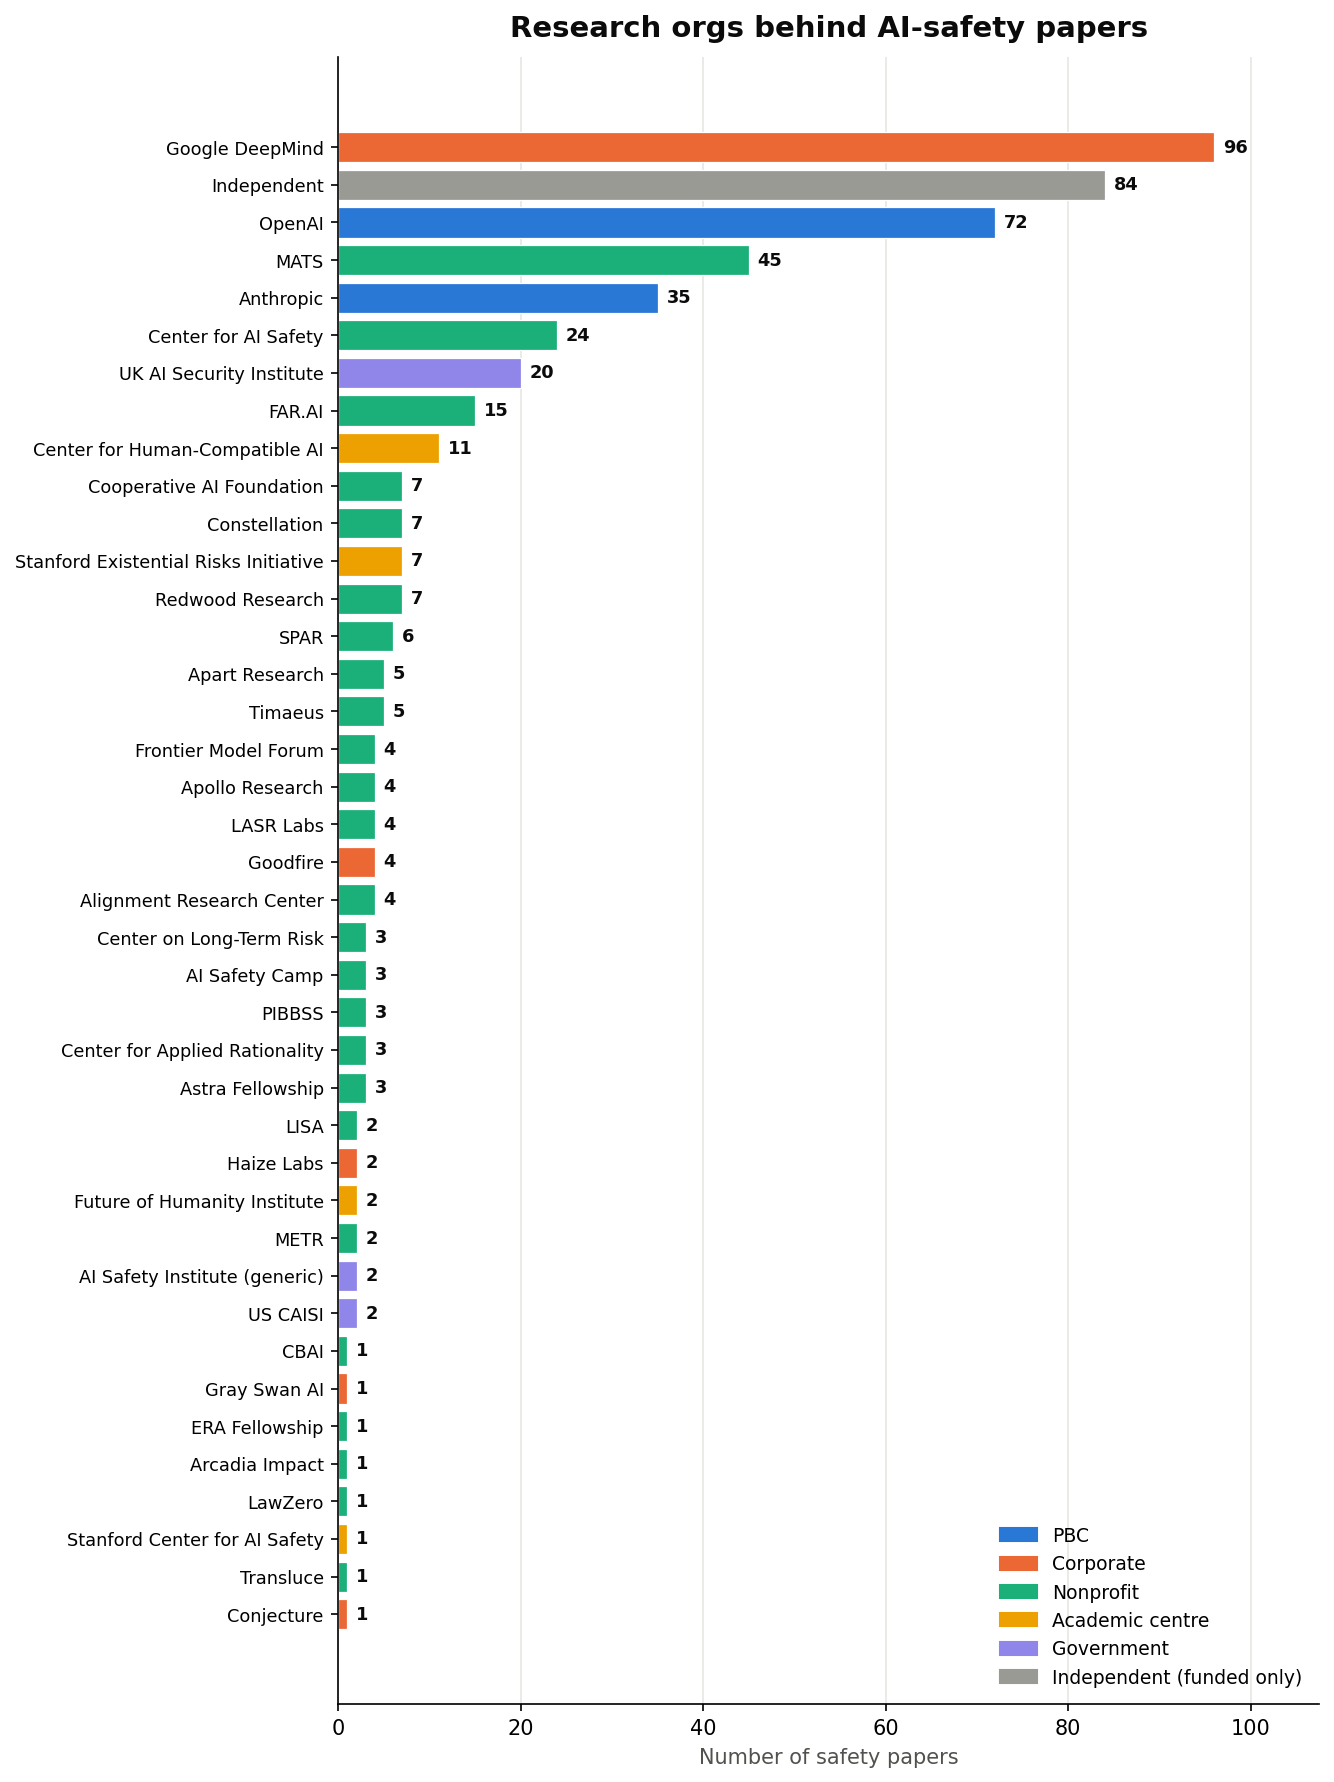
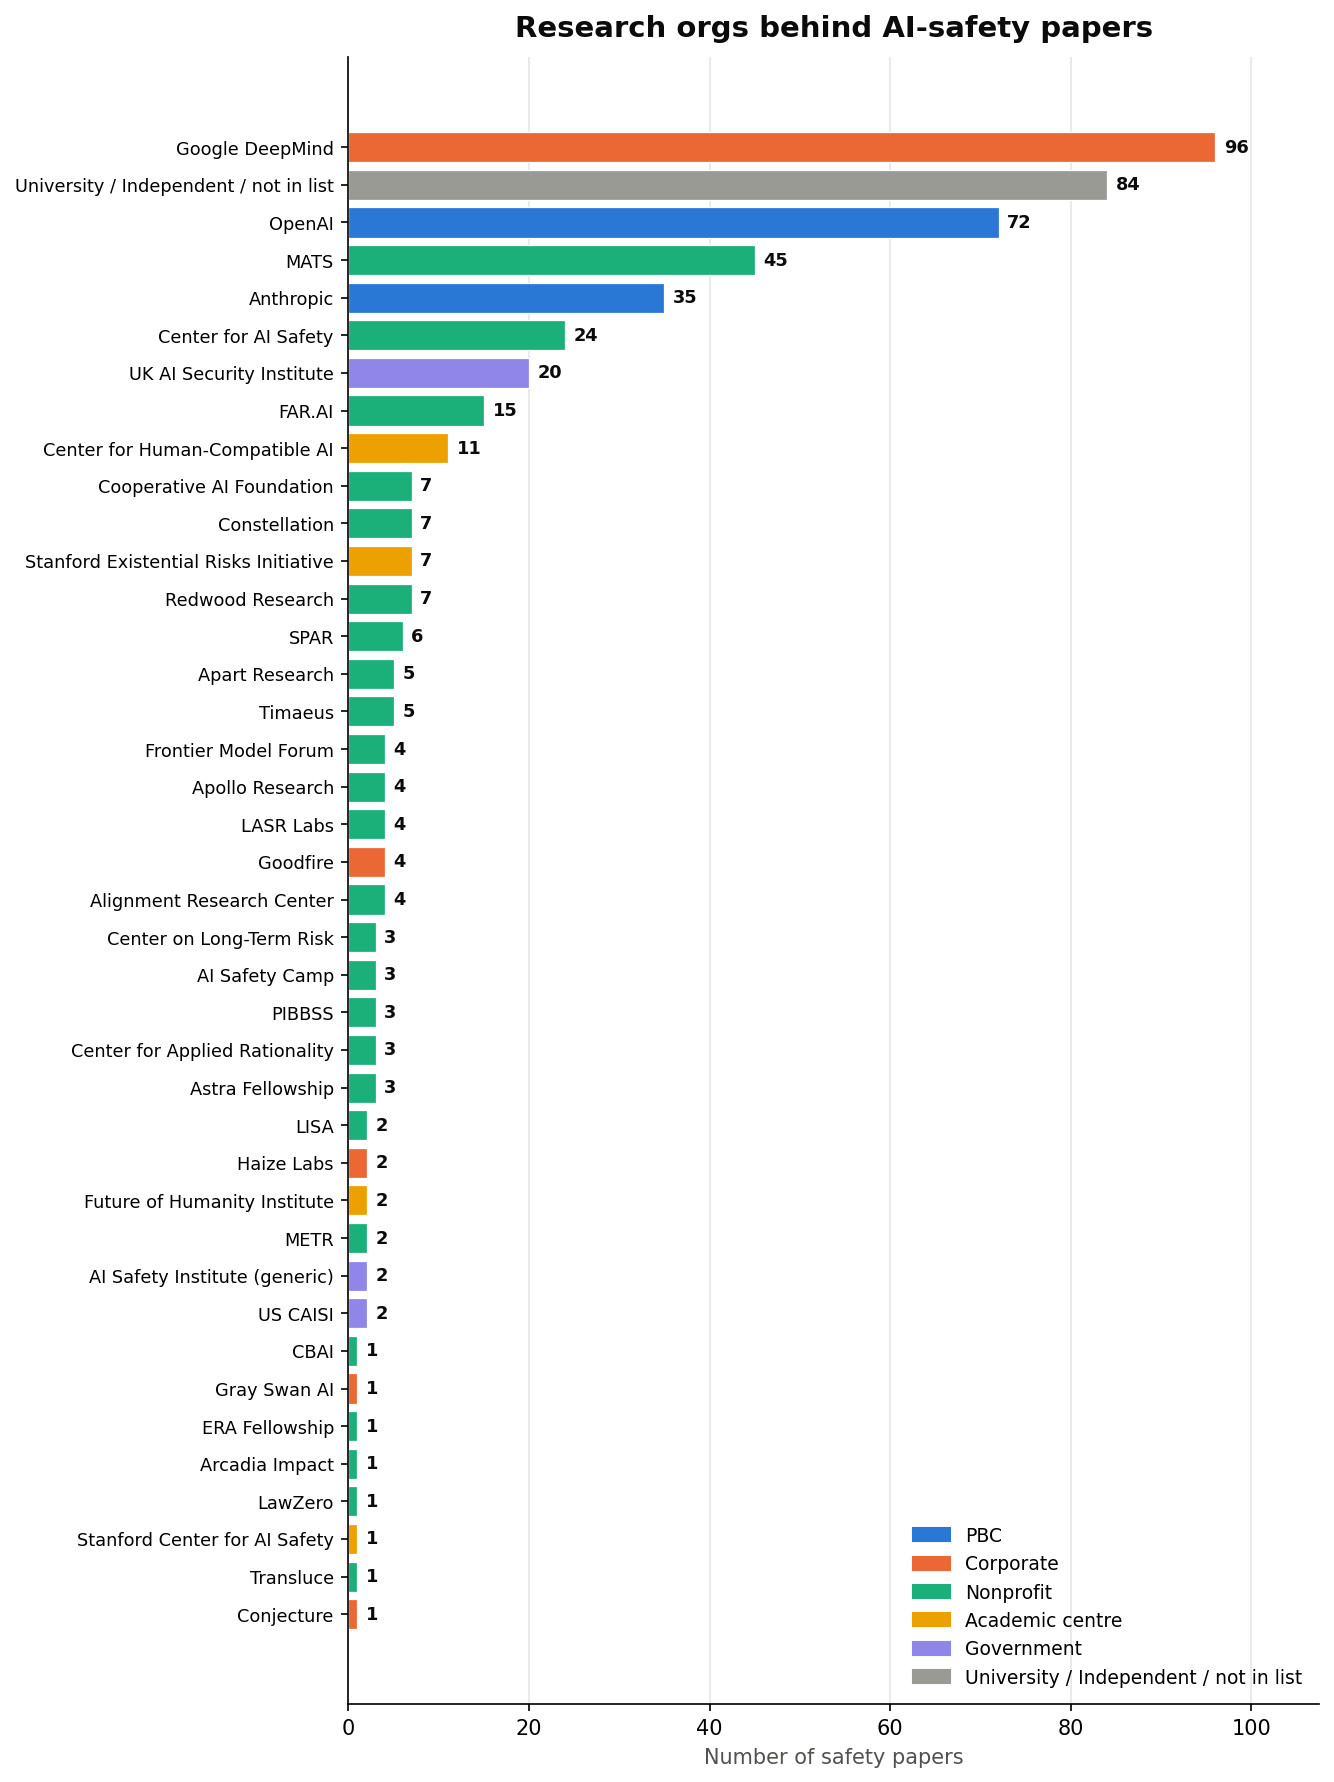
Make by-type plot consistent with the funder split; relabel Independent
- org_backed_by_type.png: bucket by research-org type, funder-only -> Independent
  (matches research_orgs.png); drops the old "funder" segment.
- Relabel "Independent" -> "University / Independent / not in list" across
  research_orgs.png, org_backed_by_type.png, orgs.csv.

diff --git a/src/org_analysis/plot.py b/src/org_analysis/plot.py
@@ -30,9 +30,36 @@ OUT = ROOT / "data" / "org_plots"
 
 import sys
 sys.path.insert(0, str(Path(__file__).resolve().parent))  # for org_structure
-from org_structure import TYPES, COLOR, LABEL, org_type, paper_bucket  # noqa: E402
+from org_structure import TYPES, COLOR, LABEL, org_type  # noqa: E402
 
 INK, INK2, GRID = "#0b0b0b", "#52514e", "#e6e6e3"
+INDEP_COLOR = "#9a9a95"  # funded, but no tracked research-org affiliation
+INDEP_LABEL = "University / Independent / not in list"
+
+# by-type buckets: research-org types + Independent (funders get their own plot)
+BUCKET_TYPES = ["PBC", "corporate", "nonprofit", "academic", "government", "independent"]
+RESEARCH_PRIORITY = ["PBC", "corporate", "academic", "government", "nonprofit"]
+
+
+def type_bucket(orgs, year, primary=None):
+    """A paper's home type: its research-org type, or 'independent' if the only
+    confirmed orgs are funders. None if no confirmed org. Consistent with the
+    research_orgs / funders split (funders are never a paper's home type)."""
+    research = [o for o in orgs if org_type(o, year) != "funder"]
+    if not research:
+        return "independent" if orgs else None
+    if primary and primary in research:
+        return org_type(primary, year)
+    types = {org_type(o, year) for o in research}
+    return next((t for t in RESEARCH_PRIORITY if t in types), "nonprofit")
+
+
+def bucket_color(t):
+    return INDEP_COLOR if t == "independent" else COLOR[t]
+
+
+def bucket_label(t):
+    return INDEP_LABEL if t == "independent" else LABEL[t]
 
 
 def load() -> pd.DataFrame:
@@ -43,7 +70,7 @@ def load() -> pd.DataFrame:
                     for c in v["confirmed"]]
     base["primary"] = v["primary"].fillna("")
     base["year"] = base["year"].astype(int)
-    base["bucket"] = [paper_bucket(o, y, p) for o, y, p in
+    base["bucket"] = [type_bucket(o, y, p) for o, y, p in
                       zip(base["orgs"], base["year"], base["primary"])]
     print(f"LLM-verified associations ({len(base)} papers)")
     return base
@@ -56,12 +83,12 @@ def main():
 
     years = sorted(df["year"].unique())
     ns, any_pct = [], []
-    seg = {t: [] for t in TYPES}
+    seg = {t: [] for t in BUCKET_TYPES}
     for y in years:
         s = df[df["year"] == y]
         n = len(s); ns.append(n)
         any_pct.append((s["bucket"].notna()).mean() * 100)
-        for t in TYPES:
+        for t in BUCKET_TYPES:
             seg[t].append((s["bucket"] == t).mean() * 100)
 
     # ---------- (A) combined ----------
@@ -84,8 +111,9 @@ def main():
     fig, ax = plt.subplots(figsize=(11.5, 6.8))
     x = range(len(years))
     bottom = [0.0] * len(years)
-    for t in TYPES:
-        ax.bar(x, seg[t], bottom=bottom, color=COLOR[t], width=0.68, label=LABEL[t])
+    for t in BUCKET_TYPES:
+        ax.bar(x, seg[t], bottom=bottom, color=bucket_color(t), width=0.68,
+               label=bucket_label(t))
         bottom = [b + s for b, s in zip(bottom, seg[t])]
     for i in x:
         tot = any_pct[i]
@@ -107,9 +135,6 @@ def main():
     plot_funders(fundc)
     write_org_csvs(orgc, fundc, independent)
     plot_prevalence_split()
-
-
-INDEP_COLOR = "#9a9a95"  # "Independent" (funded, no research-org affiliation)
 
 
 def split_orgs(df):
@@ -156,15 +181,15 @@ def _barh(names, vals, cols, title, xlabel, fname, legend=None):
 def plot_orgs(orgc, independent):
     """Research orgs behind safety papers; funder-only papers -> Independent."""
     from matplotlib.patches import Patch
-    items = sorted(list(orgc.items()) + [("Independent", independent)],
+    items = sorted(list(orgc.items()) + [(INDEP_LABEL, independent)],
                    key=lambda kv: kv[1])  # ascending for barh
     names = [n for n, _ in items]
     vals = [v for _, v in items]
-    cols = [INDEP_COLOR if n == "Independent" else COLOR[org_type(n, 2026)]
+    cols = [INDEP_COLOR if n == INDEP_LABEL else COLOR[org_type(n, 2026)]
             for n in names]
     legend = [Patch(color=COLOR[t], label=LABEL[t].split(" (")[0])
               for t in TYPES if t != "funder"]
-    legend.append(Patch(color=INDEP_COLOR, label="Independent (funded only)"))
+    legend.append(Patch(color=INDEP_COLOR, label=INDEP_LABEL))
     _barh(names, vals, cols, "Research orgs behind AI-safety papers",
           "Number of safety papers", "research_orgs.png", legend)
 
@@ -183,7 +208,7 @@ def write_org_csvs(orgc, fundc, independent):
     """Persist the two tallies next to the plots."""
     import csv
     org_rows = [(n, org_type(n, 2026), c) for n, c in orgc.items()]
-    org_rows.append(("Independent", "independent", independent))
+    org_rows.append((INDEP_LABEL, "independent", independent))
     org_rows.sort(key=lambda r: -r[2])
     with open(OUT / "orgs.csv", "w", newline="", encoding="utf-8") as f:
         w = csv.writer(f)